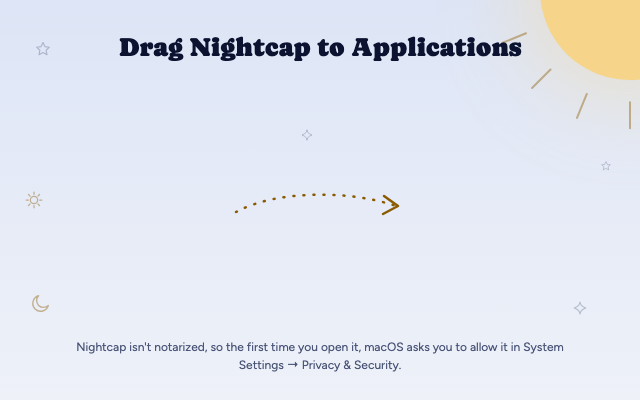
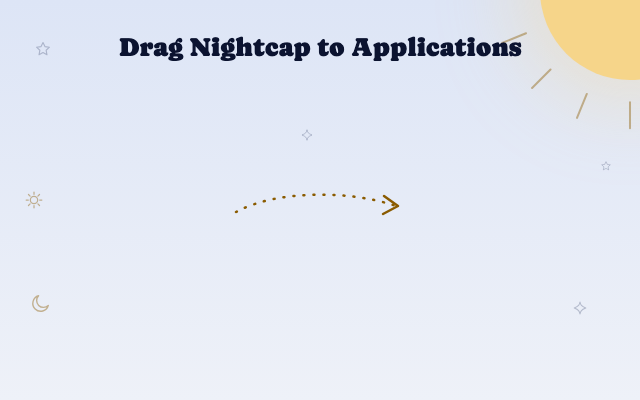
feat(release): sign with a Developer ID and notarize
Gatekeeper kept the self-signed app behind "Open Anyway" in System Settings and refused to mount a DMG signed with its certificate. Releases are signed with the team's Developer ID Application certificate and a secure timestamp, notarized with notarytool through an App Store Connect team key, and stapled before packaging, so the zip and the unsigned DMG carry the same notarized app. The release gate also requires the stapled ticket and Gatekeeper's "Notarized Developer ID" verdict.

The signing requirement names the team rather than one certificate's hash, so a renewed certificate keeps every grant; moving off the self-signed certificate costs one re-grant. Sparkle is signed by the same team, so library validation is back on and neither entitlements file disables it.

ADR-0017 supersedes ADR-0004 and the signing parts of ADR-0003 and ADR-0015. The site and the DMG background drop their notes about the app not being notarized.

Changed region(s): [[0.125, 0.84, 0.875, 0.93]]

diff --git a/release/dmg-assets/background.html b/release/dmg-assets/background.html
@@ -18,7 +18,6 @@
   .rays { position: absolute; right: -134px; top: -154px; width: 288px; height: 288px; }
   .title { position: absolute; left: 0; right: 0; top: 34px; text-align: center; font-family: Caprasimo, serif; font-size: 26px; line-height: 1; }
   .arrow { position: absolute; left: 230px; top: 186px; width: 180px; height: 40px; }
-  .note { position: absolute; left: 60px; right: 60px; bottom: 26px; text-align: center; font-size: 12px; line-height: 1.45; color: #4a5578; }
   .doodle { position: absolute; color: rgba(74, 85, 120, 0.34); }
   .gold { color: rgba(138, 91, 0, 0.42); }
 </style>
@@ -39,6 +38,5 @@
     <path d="M6 26C46 4 120 4 166 20" stroke-dasharray="1 9"/>
     <path d="M154 10l14 10-15 8"/>
   </svg>
-  <div class="note">Nightcap isn't notarized, so the first time you open it, macOS asks you to allow it in System Settings → Privacy &amp; Security.</div>
 </body>
 </html>

diff --git a/site/style.css b/site/style.css
@@ -235,7 +235,6 @@ code { font-family: var(--font-mono); font-size: 15px; color: var(--ink); }
 .dusk-text { flex: 999 1 300px; min-width: 0; display: flex; flex-direction: column; gap: 10px; }
 .dusk-title { font-family: var(--font-display); font-size: 40px; line-height: 1.05; text-wrap: balance; }
 .dusk-sub { font-size: 15px; line-height: 1.55; color: var(--starlight-muted); text-wrap: balance; }
-.dusk-note { max-width: 52ch; font-size: 13px; line-height: 1.5; color: var(--starlight-muted); opacity: 0.85; }
 
 .site-footer { display: flex; flex-wrap: wrap; align-items: center; justify-content: space-between; gap: 12px 24px; padding-block: 0 48px; font-size: 14px; color: var(--ink-muted); }
 .made-with { display: inline-flex; align-items: center; gap: 6px; }

diff --git a/site/index.html b/site/index.html
@@ -176,7 +176,6 @@
       <div class="dusk-text">
         <p class="dusk-title">Set it up before sunset.</p>
         <p class="dusk-sub">Free and open source, for macOS 27 on Apple silicon.</p>
-        <p class="dusk-note">Nightcap isn't notarized, so the first time you open it, macOS asks you to allow it in System Settings → Privacy &amp; Security.</p>
       </div>
       <a class="button button-primary button-plain spring" href="https://github.com/choco/Nightcap/releases/latest" data-download>Download for Mac</a>
     </section>

diff --git a/docs/adr/0017-developer-id-and-notarization.md b/docs/adr/0017-developer-id-and-notarization.md
@@ -1,0 +1,28 @@
+# Releases are signed with a Developer ID and notarized
+
+ADR-0004 chose a self-signed certificate because Nightcap ran only on the author's Macs. Nightcap now has a public site with a download button, and a self-signed app reaches people through warnings: Gatekeeper blocks its first launch until they find "Open Anyway" in System Settings, refuses outright to mount a DMG signed with that certificate, and keeps the app out of Homebrew's official cask tap. The project now has an Apple Developer Program membership.
+
+## Decision
+
+- **Signing**: every release and dev build is signed with the team's Developer ID Application certificate, releases with a secure timestamp. `release/sign` picks the certificate by the team that the signing requirement names.
+- **Signing requirement**: the Developer ID designated requirement, which names the bundle ID, Apple's Developer ID anchor and the team ID rather than one certificate. A renewed certificate keeps every grant, so no certificate has to outlive the app.
+- **Notarization**: CI submits the signed app with `notarytool`, signing in with an App Store Connect team key with the Developer role, kept in the `release` environment. It staples the ticket to the app before packaging, so the zip and the DMG carry the same notarized app. The DMG stays unsigned: Gatekeeper mounts an unsigned image without asking and checks the app inside when it opens, so one submission covers both downloads.
+- **Release gate**: it also requires a valid stapled ticket and Gatekeeper's verdict "Notarized Developer ID".
+- **Library validation** is on. Sparkle is signed by the same team, so the app carries no `com.apple.security.cs.disable-library-validation`, and a framework swapped inside a writable bundle doesn't load.
+- **Changing certificates** is an ordinary Sparkle update: Sparkle accepts a new code signature when the EdDSA key stays the same, so the two never change in the same release.
+
+This replaces ADR-0004 and, in ADR-0003 and ADR-0015, the parts that rest on it: the self-signed certificate, the DMG signed with it, `disable-library-validation`, and a cask that strips the quarantine flag.
+
+## Consequences
+
+- Moving off the self-signed certificate costs every existing install and dev build one re-grant of Accessibility and notifications.
+- A release needs Apple's notary service. When a submission isn't accepted, the release fails with the service's log.
+- New releases need an active membership. Published releases keep opening if it lapses, but not if their certificate is revoked: revoking is how a leaked key is fixed, and it stops every release signed with that certificate from opening. Grants survive the reinstall, because the requirement names the team.
+- Any Developer ID certificate issued to the team satisfies the signing requirement, so the Apple Account is as sensitive as the key.
+
+## Rejected alternatives
+
+- **Keeping the self-signed certificate (ADR-0004)**: every first launch goes through System Settings, which the site and the DMG have to explain, and a signed DMG can't be opened at all.
+- **Pinning the certificate's hash in the signing requirement, as ADR-0004 did**: every renewal would cost every grant again. The team ID is what Apple keeps across renewals.
+- **Signing and notarizing the DMG too**: a second submission for nothing anyone sees, since the stapled app inside already carries the ticket.
+- **An app-specific password for `notarytool`**: it rides on the Apple Account's own sign-in, while a team key reaches only App Store Connect, with the Developer role, and is revoked on its own.

diff --git a/docs/installing.md b/docs/installing.md
@@ -6,8 +6,8 @@ This is the contract for anyone packaging Nightcap: a Nix module, a Homebrew cas
 
 Every release on GitHub carries four files:
 
-- `Nightcap-<version>.zip`: the signed app, `Nightcap.app`. Installers and Sparkle's updates use it.
-- `Nightcap-<version>.dmg`: the same app in a disk image to drag into Applications, for people downloading it from the site. The disk image itself is unsigned, so macOS mounts it without asking; the app inside carries the signature.
+- `Nightcap-<version>.zip`: the signed and notarized app, `Nightcap.app`, with its notarization ticket stapled. Installers and Sparkle's updates use it.
+- `Nightcap-<version>.dmg`: the same app in a disk image to drag into Applications, for people downloading it from the site. The disk image itself is unsigned, so macOS mounts it without asking; the app inside carries the signature and the ticket.
 - `SHA256SUMS`: the zip's and the DMG's SHA-256. Check downloads against it.
 - `appcast.xml`: Sparkle's feed for this release. Installed copies read it from `https://choco.github.io/Nightcap/appcast.xml`, which always serves the newest one.
 
@@ -20,7 +20,7 @@ Every release on GitHub carries four files:
 3. **Start it.** A managed install starts `Contents/MacOS/Nightcap` from a LaunchAgent, pointing straight at the installed path, with `KeepAlive` so launchd restarts it. A self-managed install opens itself at login if the user chose that.
 4. **Put the CLI on `PATH`.** It's `Contents/Helpers/nightcap`; link it, don't copy it.
 
-A downloaded zip carries the quarantine flag. Nightcap isn't notarized, so a cask removes the flag after installing: `xattr -dr com.apple.quarantine Nightcap.app`.
+A downloaded zip carries the quarantine flag; leave it. The stapled ticket lets Gatekeeper accept the app offline, and the first launch asks only whether to open an app downloaded from the internet.
 
 ## Where Nightcap keeps its files
 

diff --git a/release/GLOSSARY.md b/release/GLOSSARY.md
@@ -5,17 +5,17 @@ How a signed Nightcap.app gets from a tagged commit to a published release that 
 ## Language
 
 **Certificate**:
-The one self-signed code-signing certificate that every release and dev build is signed with, valid for decades.
+The Developer ID Application certificate Apple issues to the project's team, which every release and dev build is signed with. A renewed one keeps every grant.
 
 **Signing requirement**:
-The rule macOS uses to recognise the app across updates: the bundle ID plus the hash of the certificate. Every grant is tied to it.
+The rule macOS uses to recognise the app across updates: the bundle ID plus the team its certificate was issued to. Every grant is tied to it.
 
 **Release gate**:
-The checks a signed app must pass before it's published: it satisfies the signing requirement exactly, links only allowed libraries, and can accept updates.
+The checks a signed app must pass before it's published: it satisfies the signing requirement exactly, Gatekeeper accepts it as notarized, it links only allowed libraries, and it can accept updates.
 _Avoid_: verification gate
 
 **Release**:
-A tagged build of Nightcap.app, signed, passed through the release gate, and published as a zip with its checksums and appcast.
+A tagged build of Nightcap.app, signed, notarized, passed through the release gate, and published as a zip and a DMG with their checksums and the appcast.
 
 **Installer**:
 What puts a release on a Mac, such as the Nix package or the brew cask. A managed install's installer also starts and updates it.

diff --git a/docs/adr/0015-self-managed-installs-update-from-the-project-site.md b/docs/adr/0015-self-managed-installs-update-from-the-project-site.md
@@ -1,3 +1,7 @@
+---
+status: superseded in part by ADR-0017
+---
+
 # Self-managed installs update through Sparkle from a feed on the project's site, and open at login only by choice; managed installs leave both to their installer
 
 Nightcap is installed two ways. A package manager such as Nix puts the bundle where the user can't write it (the Nix store), starts it from a LaunchAgent, and owns its updates. Brew or a manual drag-install puts it in `/Applications`, where nothing else updates it or starts it at login. The official homebrew/cask tap only accepts apps that pass Gatekeeper, which a self-signed, un-notarized app doesn't, so brew installs come from a personal tap whose cask strips the quarantine flag. Every update must keep the Accessibility and notification grants, which are tied to the signing requirement (ADR-0004). The project has a small website on GitHub Pages, so the feed URL every installed copy keeps can be one the project controls. Starting at every login is a choice the user should make: macOS announces a newly added login item with its own notification, which arrives with no context when nobody asked for it.

diff --git a/docs/adr/0003-ci-signs-installers-use-release.md b/docs/adr/0003-ci-signs-installers-use-release.md
@@ -1,3 +1,7 @@
+---
+status: superseded in part by ADR-0017
+---
+
 # CI builds, signs and publishes; installers use the signed release unchanged
 
 Permission grants survive an update only if the new build satisfies the same signing requirement, so every build that reaches a Mac must be signed with the same certificate (ADR-0004). The shell needs current Xcode and Swift. Nightcap is installed by package managers whose packaging lives outside this repo, such as nix-darwin and home-manager in the author's nix-config. The repo is public, so a release downloads without credentials.

diff --git a/docs/adr/0004-long-lived-self-signed-certificate.md b/docs/adr/0004-long-lived-self-signed-certificate.md
@@ -1,3 +1,7 @@
+---
+status: superseded by ADR-0017
+---
+
 # One self-signed certificate, valid for 20+ years
 
 macOS ties every permission grant to the app's signing requirement. For a self-signed app, that is the bundle ID `io.github.choco.nightcap` plus the hash of the signing certificate itself. Re-issuing the certificate, even with the same key, changes the hash and loses every grant. Nightcap runs only on the author's own machines, so there is no notarization.
